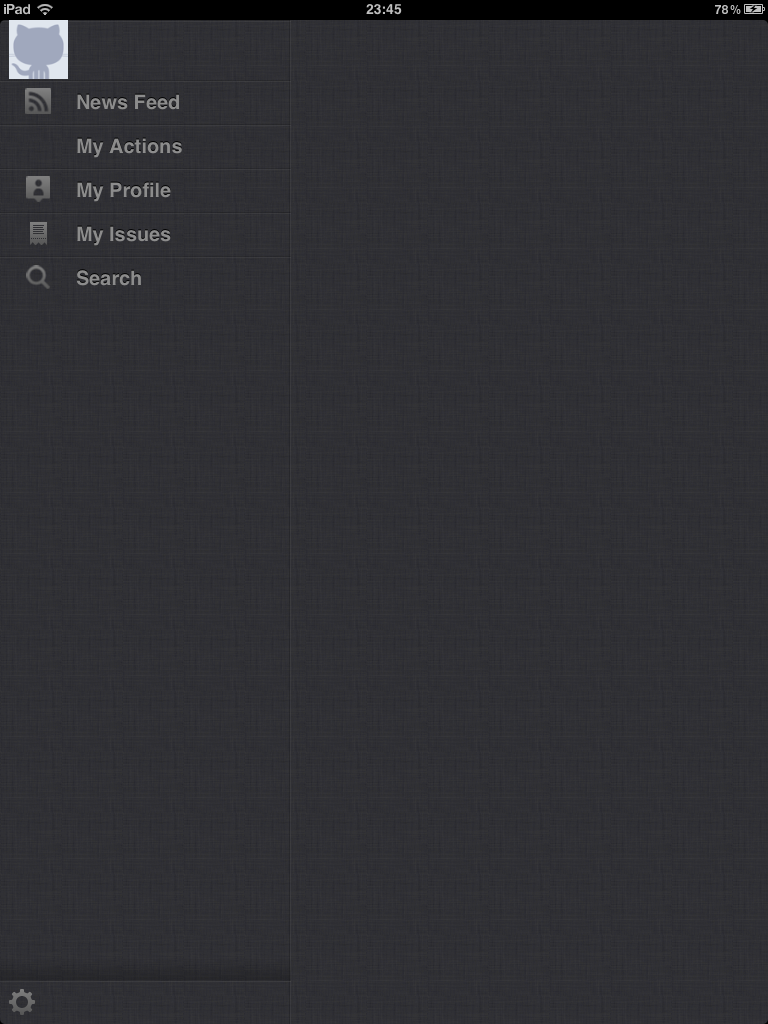
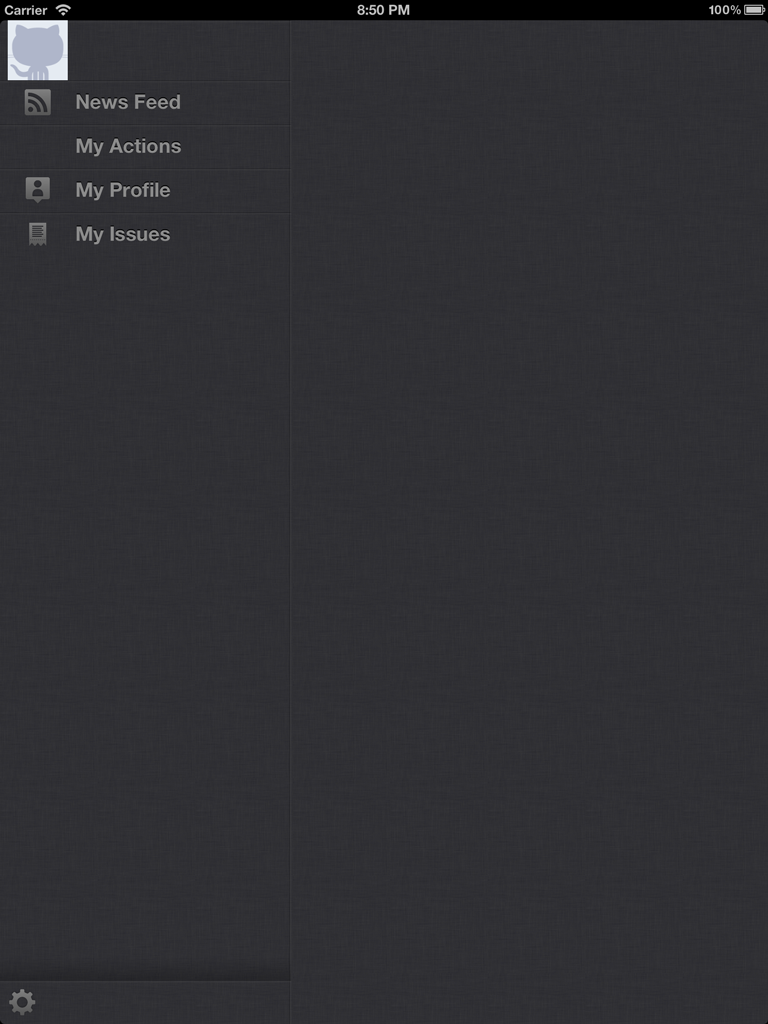
Further bug fixes.

diff --git a/iGithub/iPad/UI/GHPLeftNavigationController/GHPLeftNavigationController.m b/iGithub/iPad/UI/GHPLeftNavigationController/GHPLeftNavigationController.m
@@ -239,8 +239,8 @@
         // News Feed + Your Actions
         return 2;
     } else if (section == kUITableViewSectionBottom) {
-        // My Profile + My Issues + Search
-        return 3;
+        // My Profile + My Issues
+        return 2;
     } else if (section == kUITableViewSectionOrganizations) {
         // My Profile + Search
         return self.organizations.count;
@@ -289,9 +289,6 @@
             } else if (indexPath.row == 1) {
                 cell.textLabel.text = NSLocalizedString(@"My Issues", @"");
                 [cell setItemImage:[UIImage imageNamed:@"162-receipt.png"] ];
-            } else if (indexPath.row == 2) {
-                cell.textLabel.text = NSLocalizedString(@"Search", @"");
-                [cell setItemImage:[UIImage imageNamed:@"Lupe.PNG"] ];
             }
         } else if (indexPath.section == kUITableViewSectionOrganizations) {
             // My Profile + Search
@@ -366,8 +363,6 @@
             [(GHPUserViewController *)viewController setReloadDataIfNewUserGotAuthenticated:YES];
         } else if (indexPath.row == 1) {
             viewController = [[GHPIssuesOfAuthenticatedUserViewController alloc] init];
-        } else if (indexPath.row == 2) {
-            viewController = [[GHPSearchViewController alloc] init];
         }
     } else if (indexPath.section == kUITableViewSectionOrganizations) {
         // My Profile + Search
